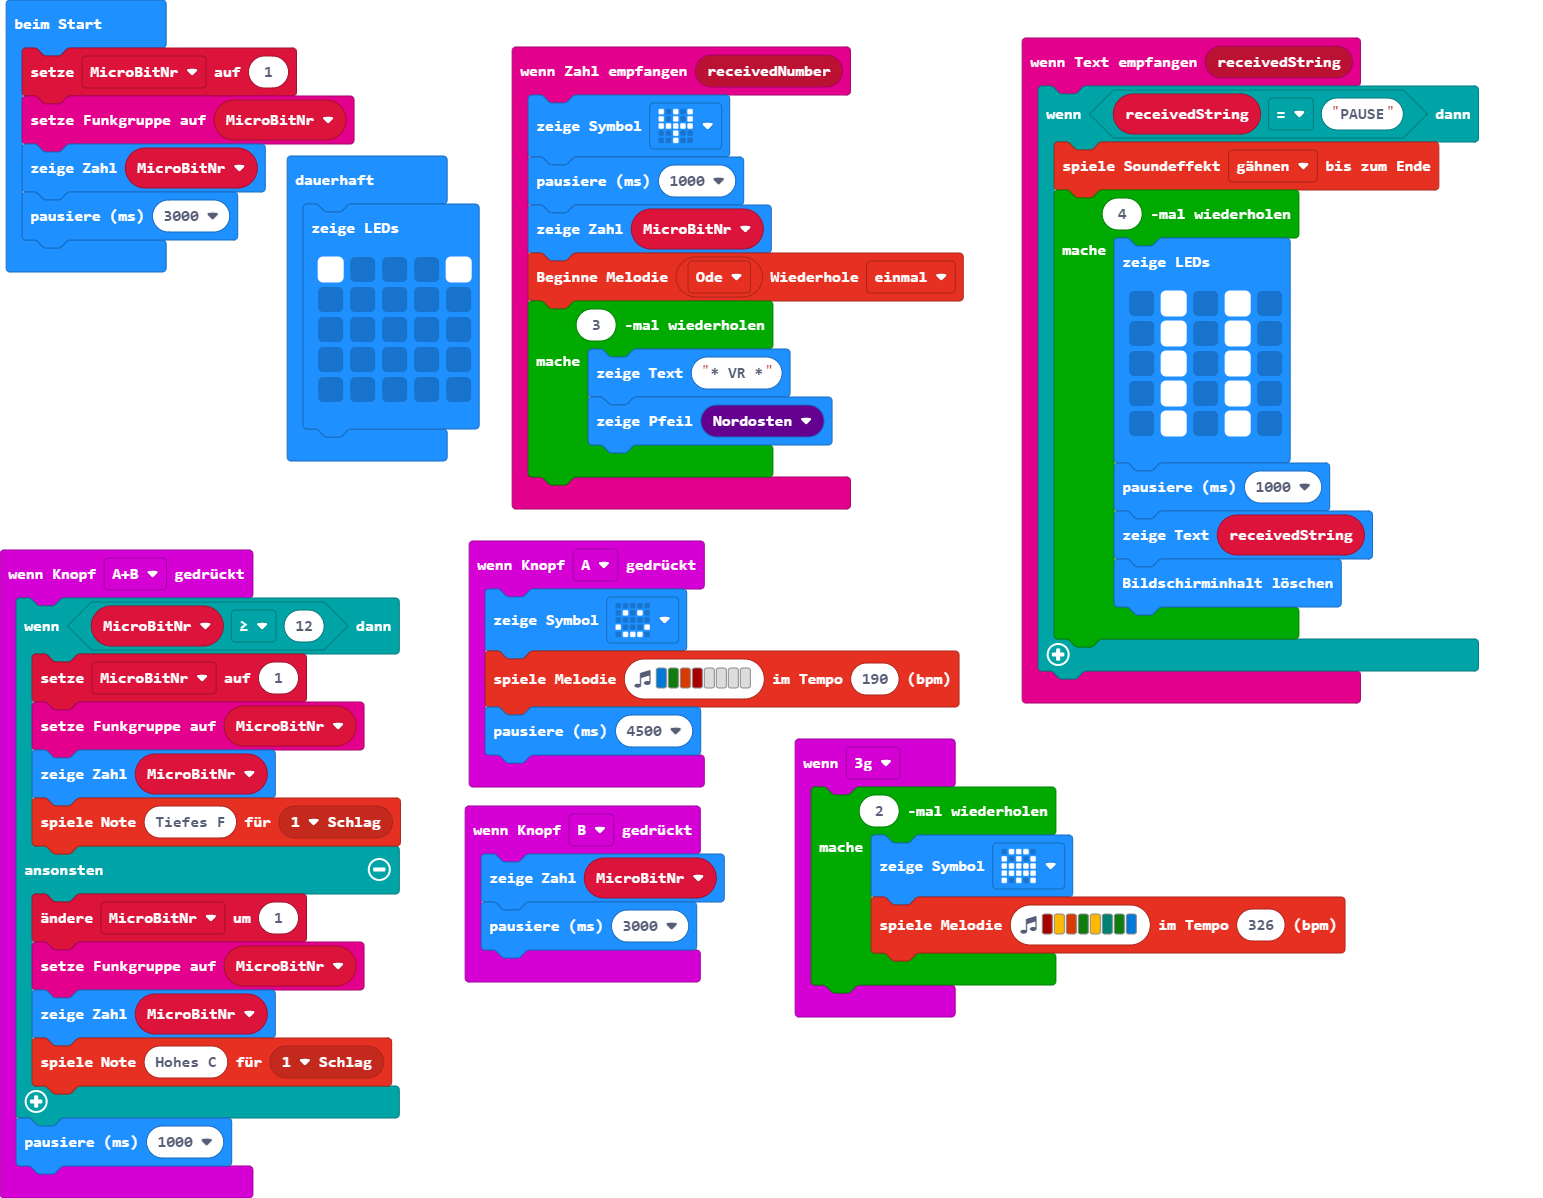
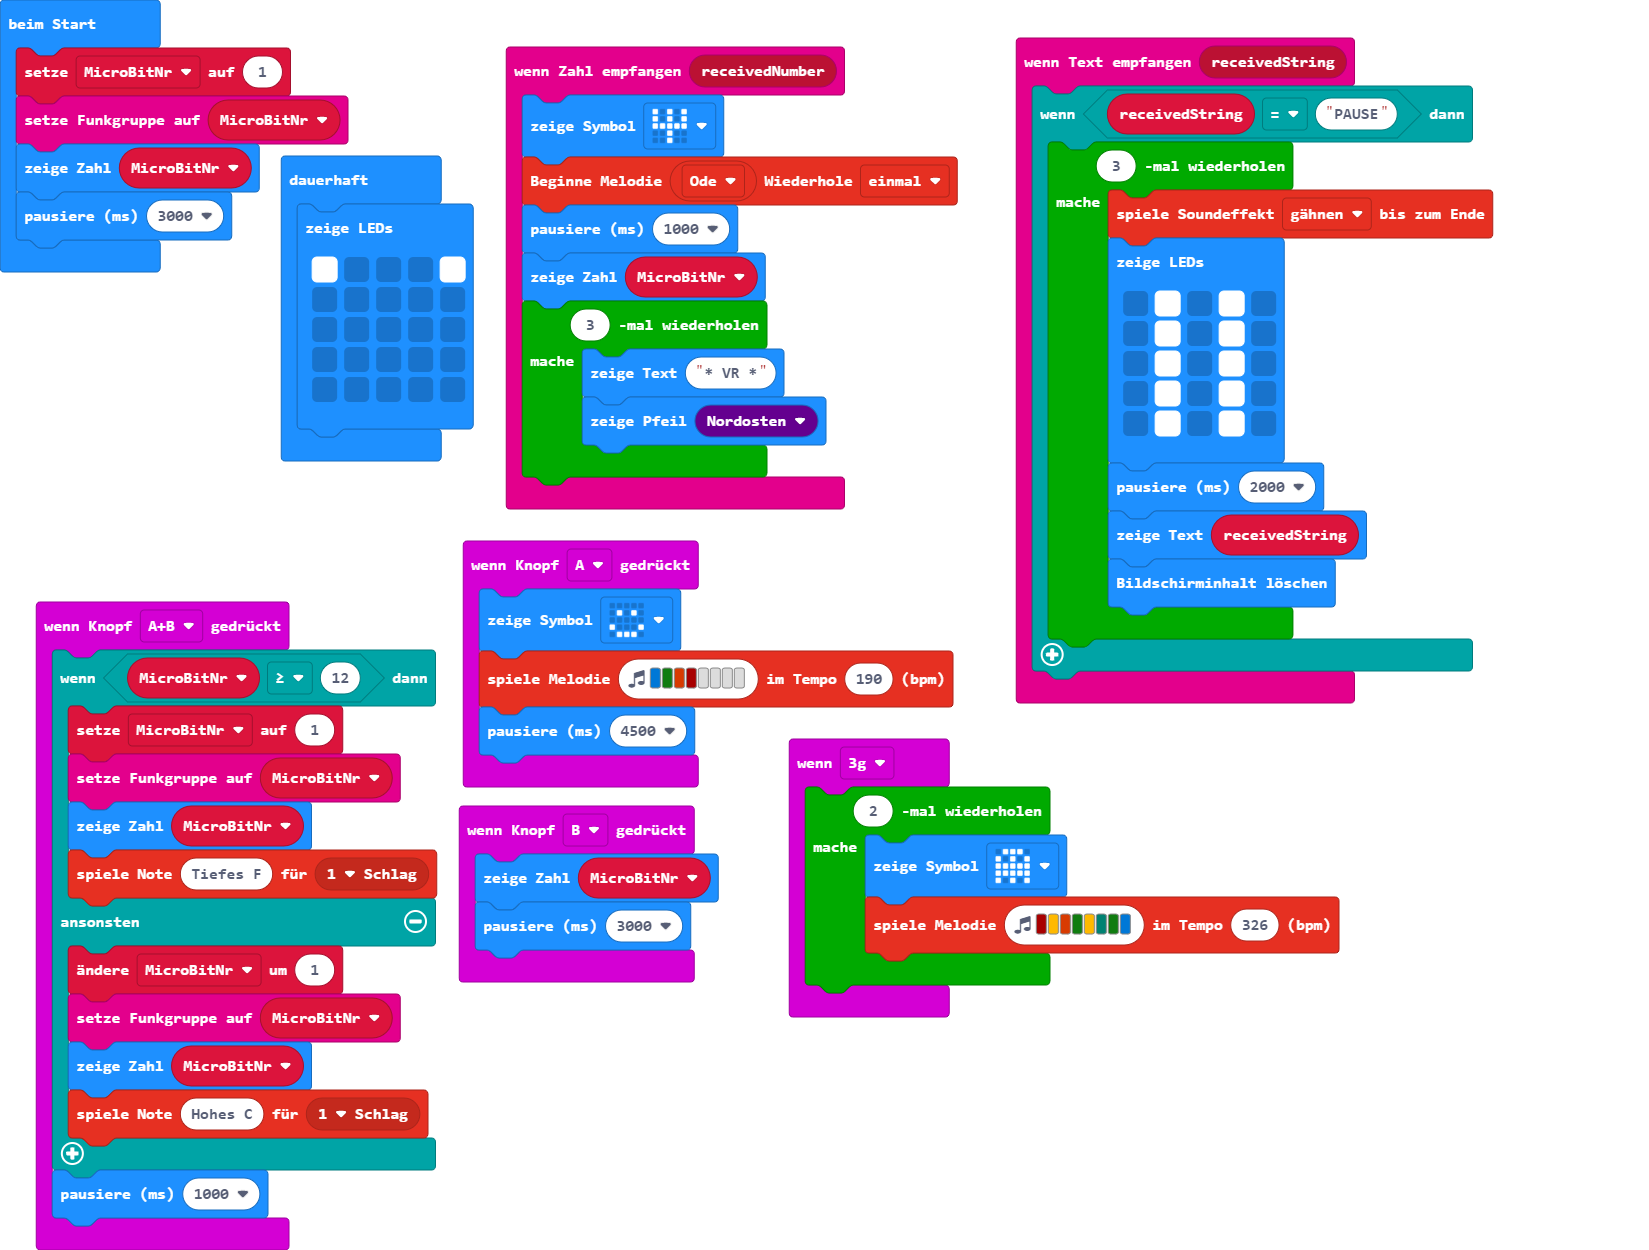
Aktualisiere main.blocks, main.ts

diff --git a/main.ts b/main.ts
@@ -1,8 +1,8 @@
 radio.onReceivedNumber(function (receivedNumber) {
     basic.showIcon(IconNames.Pitchfork)
+    music.startMelody(music.builtInMelody(Melodies.Ode), MelodyOptions.Once)
     basic.pause(1000)
     basic.showNumber(MicroBitNr)
-    music.startMelody(music.builtInMelody(Melodies.Ode), MelodyOptions.Once)
     for (let index = 0; index < 3; index++) {
         basic.showString("* VR *")
         basic.showArrow(ArrowNames.NorthEast)
@@ -29,8 +29,8 @@ input.onButtonPressed(Button.AB, function () {
 })
 radio.onReceivedString(function (receivedString) {
     if (receivedString == "PAUSE") {
-        soundExpression.yawn.playUntilDone()
-        for (let index = 0; index < 4; index++) {
+        for (let index = 0; index < 3; index++) {
+            soundExpression.yawn.playUntilDone()
             basic.showLeds(`
                 . # . # .
                 . # . # .
@@ -38,7 +38,7 @@ radio.onReceivedString(function (receivedString) {
                 . # . # .
                 . # . # .
                 `)
-            basic.pause(1000)
+            basic.pause(2000)
             basic.showString(receivedString)
             basic.clearScreen()
         }
